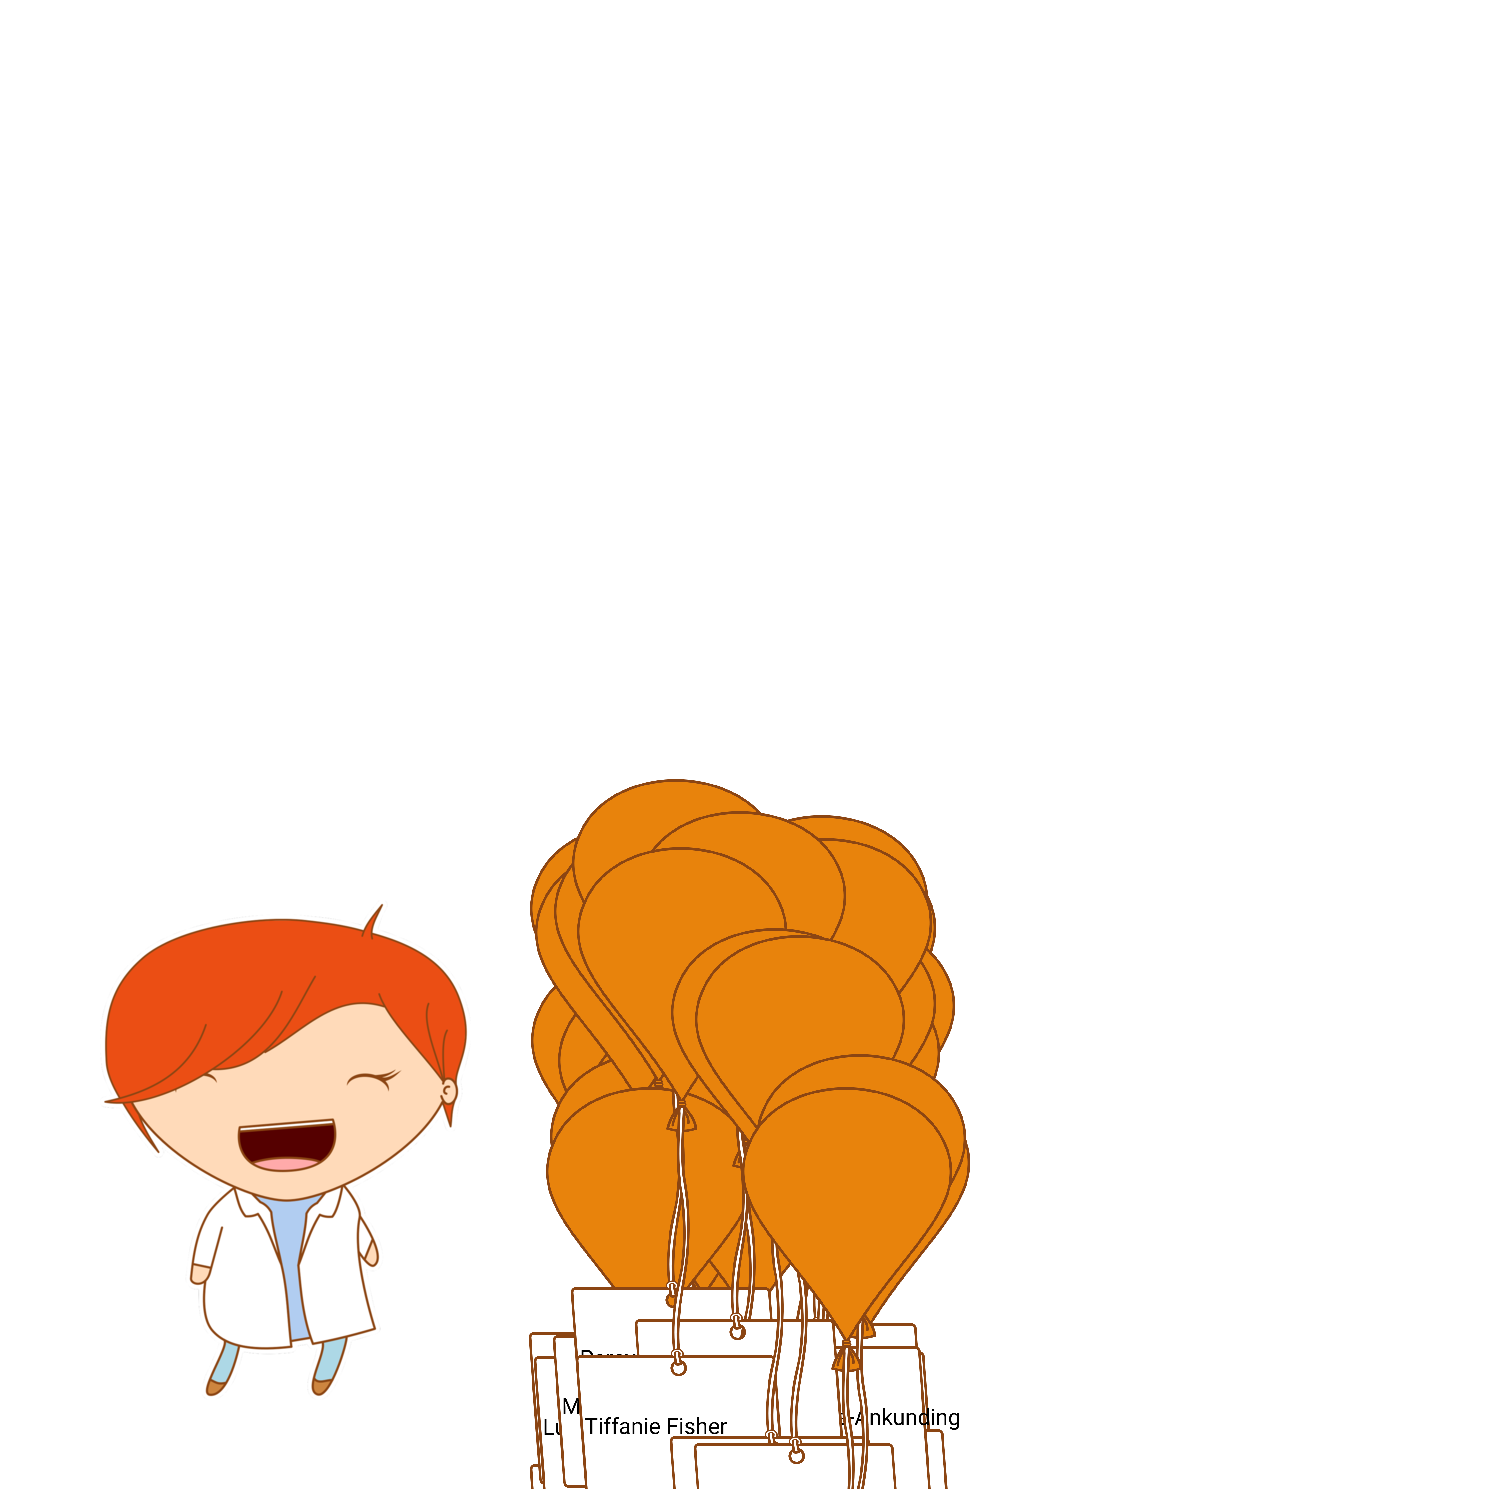
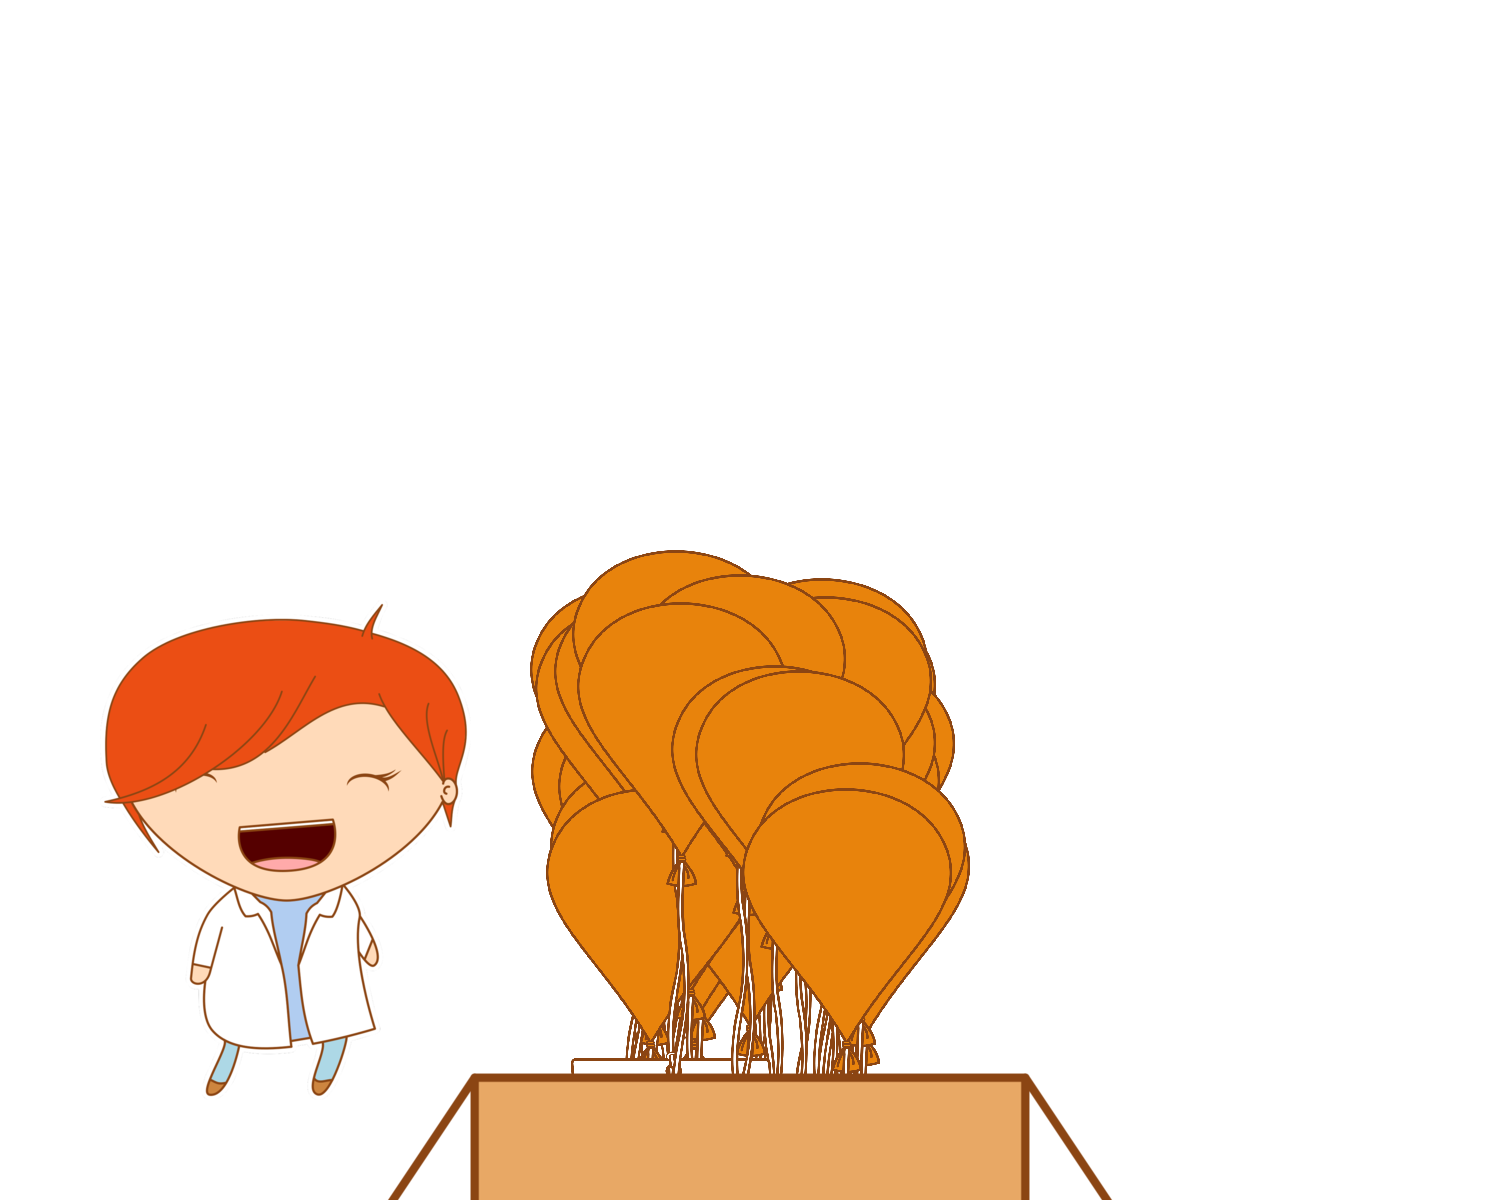
check out my lame README @stephlocke

Changed region(s): [[0.0613, 0.4317, 0.736, 1.0]]

diff --git a/README.md b/README.md
@@ -1,0 +1,16 @@
+Make a gif with balloons for Steph's 31th birthday
+===================================================
+
+You'll need
+
+* to delete the content of balloons/ and tags/.
+
+* Use [make_lotto.R](make_lotto.R)
+
+* `rtweet` and all the token stuff. Check `rtweet` issue tracker first: currently, the API has a bug. Uncomment the rtweet code (it uses `charlatan` at the moment).
+
+* `magick`, `tweenr`, `glue`, `ggplot2`, `ggimage`, `stringr`, `purrr`, `fs`, `magrittr`
+
+* to get winners run `paste0("The winners are ", toString(winners))`, it's a line in the script actually.
+
+* The `magick` gif creation at the end didn't work, maybe too many frames, potentially use an online tool, sorry. The frames are in frames/
